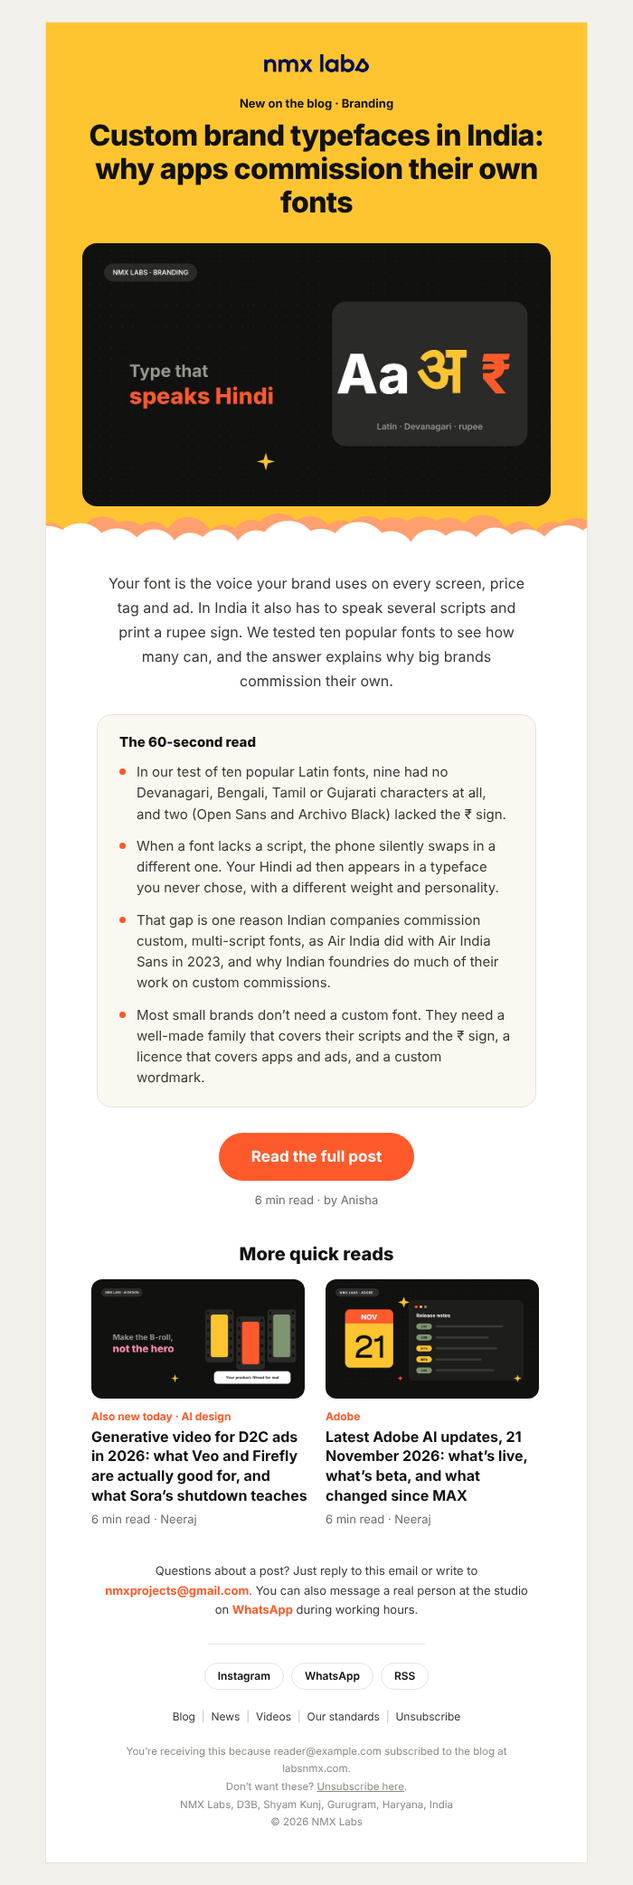
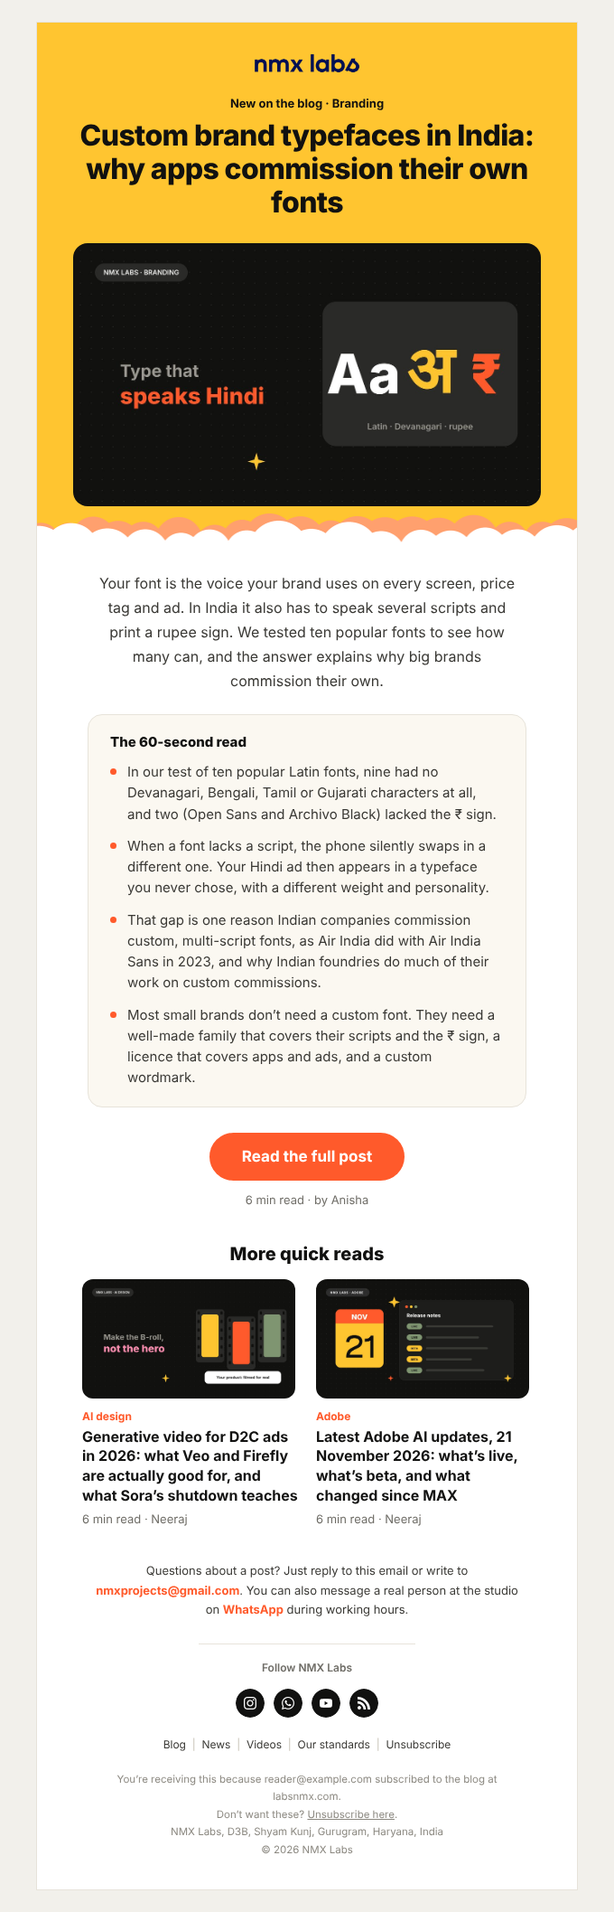
Add files via upload

Changed region(s): [[0.0618, 0.0, 0.9574, 0.5923], [0.1235, 0.5923, 0.8647, 0.9664], [0.1235, 0.0312, 0.8647, 0.1247]]

diff --git a/email-previews/new-post-email.html b/email-previews/new-post-email.html
@@ -1,50 +1,52 @@
 <!doctype html><html lang="en"><head><meta charset="utf-8"><meta name="viewport" content="width=device-width,initial-scale=1"><meta name="color-scheme" content="light only"><title>Custom brand typefaces in India: why apps commission their own fonts</title>
-<style>@media (max-width:620px){.container{width:100%!important}.px{padding-left:22px!important;padding-right:22px!important}.h1{font-size:27px!important}.qrc{display:block!important;width:100%!important;padding:0 0 22px!important}}</style></head>
+<link rel="preconnect" href="https://fonts.gstatic.com" crossorigin><link href="https://fonts.googleapis.com/css2?family=Inter:wght@400;500;600;700;800&display=swap" rel="stylesheet">
+<!--[if mso]><style>body,table,td,p,a,h1{font-family:Arial,Helvetica,sans-serif!important}</style><![endif]-->
+<style>@import url('https://fonts.googleapis.com/css2?family=Inter:wght@400;500;600;700;800&display=swap');@media (max-width:620px){.container{width:100%!important}.px{padding-left:22px!important;padding-right:22px!important}.h1{font-size:27px!important}.qrc{display:block!important;width:100%!important;padding:0 0 22px!important}}</style></head>
 <body style="margin:0;padding:0;background:#f2f0eb;-webkit-text-size-adjust:100%">
 <div style="display:none;max-height:0;overflow:hidden;opacity:0;color:#f2f0eb">Your font is the voice your brand uses on every screen, price tag and ad. In India it also has to speak several scripts and print a rupee sign. We tested ten popular fonts to see how many can, and the answer explains why big brands commission their own.</div>
 <table role="presentation" width="100%" cellpadding="0" cellspacing="0" style="background:#f2f0eb"><tr><td align="center" style="padding:24px 10px">
 <table role="presentation" class="container" width="600" cellpadding="0" cellspacing="0" style="width:600px;max-width:600px;background:#ffffff;border:1px solid #e7e3da">
   <tr><td class="px" align="center" style="background:#ffc530;padding:34px 40px 0">
     <a href="https://labsnmx.com/"><img src="https://labsnmx.com/assets/logo.png" width="118" height="22" alt="NMX Labs" style="display:block;border:0;height:22px;width:118px"></a>
-    <p style="margin:24px 0 0;font:700 13px/1.4 'Helvetica Neue',Helvetica,Arial,sans-serif;color:#111110">New on the blog · Branding</p>
-    <h1 class="h1" style="margin:8px 0 0;font:800 32px/1.16 'Helvetica Neue',Helvetica,Arial,sans-serif;color:#111110;letter-spacing:-0.02em">Custom brand typefaces in India: why apps commission their own fonts</h1>
+    <p style="margin:24px 0 0;font:700 13px/1.4 Inter,'Helvetica Neue',Helvetica,Arial,sans-serif;color:#111110">New on the blog · Branding</p>
+    <h1 class="h1" style="margin:8px 0 0;font:800 32px/1.16 Inter,'Helvetica Neue',Helvetica,Arial,sans-serif;color:#111110;letter-spacing:-0.02em">Custom brand typefaces in India: why apps commission their own fonts</h1>
   </td></tr>
   <tr><td class="px" align="center" style="background:#ffc530;padding:26px 40px 0;line-height:0"><a href="https://labsnmx.com/blog/custom-brand-typefaces-india/?utm_source=newsletter&amp;utm_medium=email&amp;utm_campaign=post_custom-brand-typefaces-india"><img src="https://labsnmx.com/assets/blog/custom-brand-typefaces-india.jpg" width="520" alt="" style="display:block;width:100%;max-width:520px;height:auto;border:0;border-radius:16px"></a></td></tr>
   <tr><td style="background:#ffc530;line-height:0;font-size:0"><img src="https://labsnmx.com/assets/email/edge.png" width="600" height="48" alt="" style="display:block;width:100%;height:auto;border:0"></td></tr>
-  <tr><td class="px" align="center" style="padding:24px 64px 18px;font:16px/1.7 'Helvetica Neue',Helvetica,Arial,sans-serif;color:#3a3935;text-align:center"><p style="margin:0">Your font is the voice your brand uses on every screen, price tag and ad. In India it also has to speak several scripts and print a rupee sign. We tested ten popular fonts to see how many can, and the answer explains why big brands commission their own.</p></td></tr>
+  <tr><td class="px" align="center" style="padding:24px 64px 18px;font:16px/1.7 Inter,'Helvetica Neue',Helvetica,Arial,sans-serif;color:#3a3935;text-align:center"><p style="margin:0">Your font is the voice your brand uses on every screen, price tag and ad. In India it also has to speak several scripts and print a rupee sign. We tested ten popular fonts to see how many can, and the answer explains why big brands commission their own.</p></td></tr>
   <tr><td class="px" style="padding:4px 56px 0">
       <table role="presentation" width="100%" cellpadding="0" cellspacing="0" style="background:#fbf8f1;border:1px solid #e7e3da;border-radius:16px"><tr><td style="padding:20px 24px 8px">
-        <p style="margin:0 0 12px;font:800 15px/1.3 'Helvetica Neue',Helvetica,Arial,sans-serif;color:#111110">The 60-second read</p>
-        <table role="presentation" cellpadding="0" cellspacing="0" style="margin:0 0 12px"><tr><td valign="top" style="padding:8px 12px 0 0"><div style="width:7px;height:7px;border-radius:7px;background:#ff5a2b;font-size:0;line-height:0">&nbsp;</div></td><td style="font:15px/1.55 'Helvetica Neue',Helvetica,Arial,sans-serif;color:#3a3935">In our test of ten popular Latin fonts, nine had no Devanagari, Bengali, Tamil or Gujarati characters at all, and two (Open Sans and Archivo Black) lacked the ₹ sign.</td></tr></table><table role="presentation" cellpadding="0" cellspacing="0" style="margin:0 0 12px"><tr><td valign="top" style="padding:8px 12px 0 0"><div style="width:7px;height:7px;border-radius:7px;background:#ff5a2b;font-size:0;line-height:0">&nbsp;</div></td><td style="font:15px/1.55 'Helvetica Neue',Helvetica,Arial,sans-serif;color:#3a3935">When a font lacks a script, the phone silently swaps in a different one. Your Hindi ad then appears in a typeface you never chose, with a different weight and personality.</td></tr></table><table role="presentation" cellpadding="0" cellspacing="0" style="margin:0 0 12px"><tr><td valign="top" style="padding:8px 12px 0 0"><div style="width:7px;height:7px;border-radius:7px;background:#ff5a2b;font-size:0;line-height:0">&nbsp;</div></td><td style="font:15px/1.55 'Helvetica Neue',Helvetica,Arial,sans-serif;color:#3a3935">That gap is one reason Indian companies commission custom, multi-script fonts, as Air India did with Air India Sans in 2023, and why Indian foundries do much of their work on custom commissions.</td></tr></table><table role="presentation" cellpadding="0" cellspacing="0" style="margin:0 0 12px"><tr><td valign="top" style="padding:8px 12px 0 0"><div style="width:7px;height:7px;border-radius:7px;background:#ff5a2b;font-size:0;line-height:0">&nbsp;</div></td><td style="font:15px/1.55 'Helvetica Neue',Helvetica,Arial,sans-serif;color:#3a3935">Most small brands don’t need a custom font. They need a well-made family that covers their scripts and the ₹ sign, a licence that covers apps and ads, and a custom wordmark.</td></tr></table>
+        <p style="margin:0 0 12px;font:800 15px/1.3 Inter,'Helvetica Neue',Helvetica,Arial,sans-serif;color:#111110">The 60-second read</p>
+        <table role="presentation" cellpadding="0" cellspacing="0" style="margin:0 0 12px"><tr><td valign="top" style="padding:8px 12px 0 0"><div style="width:7px;height:7px;border-radius:7px;background:#ff5a2b;font-size:0;line-height:0">&nbsp;</div></td><td style="font:15px/1.55 Inter,'Helvetica Neue',Helvetica,Arial,sans-serif;color:#3a3935">In our test of ten popular Latin fonts, nine had no Devanagari, Bengali, Tamil or Gujarati characters at all, and two (Open Sans and Archivo Black) lacked the ₹ sign.</td></tr></table><table role="presentation" cellpadding="0" cellspacing="0" style="margin:0 0 12px"><tr><td valign="top" style="padding:8px 12px 0 0"><div style="width:7px;height:7px;border-radius:7px;background:#ff5a2b;font-size:0;line-height:0">&nbsp;</div></td><td style="font:15px/1.55 Inter,'Helvetica Neue',Helvetica,Arial,sans-serif;color:#3a3935">When a font lacks a script, the phone silently swaps in a different one. Your Hindi ad then appears in a typeface you never chose, with a different weight and personality.</td></tr></table><table role="presentation" cellpadding="0" cellspacing="0" style="margin:0 0 12px"><tr><td valign="top" style="padding:8px 12px 0 0"><div style="width:7px;height:7px;border-radius:7px;background:#ff5a2b;font-size:0;line-height:0">&nbsp;</div></td><td style="font:15px/1.55 Inter,'Helvetica Neue',Helvetica,Arial,sans-serif;color:#3a3935">That gap is one reason Indian companies commission custom, multi-script fonts, as Air India did with Air India Sans in 2023, and why Indian foundries do much of their work on custom commissions.</td></tr></table><table role="presentation" cellpadding="0" cellspacing="0" style="margin:0 0 12px"><tr><td valign="top" style="padding:8px 12px 0 0"><div style="width:7px;height:7px;border-radius:7px;background:#ff5a2b;font-size:0;line-height:0">&nbsp;</div></td><td style="font:15px/1.55 Inter,'Helvetica Neue',Helvetica,Arial,sans-serif;color:#3a3935">Most small brands don’t need a custom font. They need a well-made family that covers their scripts and the ₹ sign, a licence that covers apps and ads, and a custom wordmark.</td></tr></table>
       </td></tr></table></td></tr>
   <tr><td align="center" style="padding:28px 40px 4px">
-      <a href="https://labsnmx.com/blog/custom-brand-typefaces-india/?utm_source=newsletter&amp;utm_medium=email&amp;utm_campaign=post_custom-brand-typefaces-india" style="display:inline-block;background:#ff5a2b;color:#ffffff;font:700 17px/1 'Helvetica Neue',Helvetica,Arial,sans-serif;text-decoration:none;padding:18px 36px;border-radius:999px">Read the full post</a>
-      <p style="margin:12px 0 0;font:13px/1.45 'Helvetica Neue',Helvetica,Arial,sans-serif;color:#6f6d67">6 min read · by Anisha</p></td></tr>
+      <a href="https://labsnmx.com/blog/custom-brand-typefaces-india/?utm_source=newsletter&amp;utm_medium=email&amp;utm_campaign=post_custom-brand-typefaces-india" style="display:inline-block;background:#ff5a2b;color:#ffffff;font:700 17px/1 Inter,'Helvetica Neue',Helvetica,Arial,sans-serif;text-decoration:none;padding:18px 36px;border-radius:999px">Read the full post</a>
+      <p style="margin:12px 0 0;font:13px/1.45 Inter,'Helvetica Neue',Helvetica,Arial,sans-serif;color:#6f6d67">6 min read · by Anisha</p></td></tr>
   <tr><td class="px" style="padding:34px 40px 6px">
-      <p style="margin:0 0 16px;text-align:center;font:800 20px/1.2 'Helvetica Neue',Helvetica,Arial,sans-serif;color:#111110">More quick reads</p>
+      <p style="margin:0 0 16px;text-align:center;font:800 20px/1.2 Inter,'Helvetica Neue',Helvetica,Arial,sans-serif;color:#111110">More quick reads</p>
       <table role="presentation" class="qr" width="100%" cellpadding="0" cellspacing="0"><tr><td class="qrc" width="50%" valign="top" style="padding:0 10px">
       <a href="https://labsnmx.com/blog/generative-video-d2c-ads-veo-firefly/?utm_source=newsletter&amp;utm_medium=email&amp;utm_campaign=post_custom-brand-typefaces-india" style="text-decoration:none;color:#111110">
         <img src="https://labsnmx.com/assets/blog/generative-video-d2c-ads-veo-firefly.jpg" width="236" alt="" style="display:block;width:100%;max-width:236px;height:auto;border:0;border-radius:12px">
-        <p style="margin:12px 0 4px;font:700 12px/1.3 'Helvetica Neue',Helvetica,Arial,sans-serif;color:#ff5a2b">Also new today · AI design</p>
-        <p style="margin:0;font:700 16px/1.35 'Helvetica Neue',Helvetica,Arial,sans-serif;color:#111110">Generative video for D2C ads in 2026: what Veo and Firefly are actually good for, and what Sora’s shutdown teaches</p>
-        <p style="margin:6px 0 0;font:13px/1.4 'Helvetica Neue',Helvetica,Arial,sans-serif;color:#6f6d67">6 min read · Neeraj</p>
+        <p style="margin:12px 0 4px;font:700 12px/1.3 Inter,'Helvetica Neue',Helvetica,Arial,sans-serif;color:#ff5a2b">AI design</p>
+        <p style="margin:0;font:700 16px/1.35 Inter,'Helvetica Neue',Helvetica,Arial,sans-serif;color:#111110">Generative video for D2C ads in 2026: what Veo and Firefly are actually good for, and what Sora’s shutdown teaches</p>
+        <p style="margin:6px 0 0;font:13px/1.4 Inter,'Helvetica Neue',Helvetica,Arial,sans-serif;color:#6f6d67">6 min read · Neeraj</p>
       </a></td><td class="qrc" width="50%" valign="top" style="padding:0 10px">
       <a href="https://labsnmx.com/blog/latest-adobe-ai-updates-november-2026/?utm_source=newsletter&amp;utm_medium=email&amp;utm_campaign=post_custom-brand-typefaces-india" style="text-decoration:none;color:#111110">
         <img src="https://labsnmx.com/assets/blog/latest-adobe-ai-updates-november-2026.jpg" width="236" alt="" style="display:block;width:100%;max-width:236px;height:auto;border:0;border-radius:12px">
-        <p style="margin:12px 0 4px;font:700 12px/1.3 'Helvetica Neue',Helvetica,Arial,sans-serif;color:#ff5a2b">Adobe</p>
-        <p style="margin:0;font:700 16px/1.35 'Helvetica Neue',Helvetica,Arial,sans-serif;color:#111110">Latest Adobe AI updates, 21 November 2026: what’s live, what’s beta, and what changed since MAX</p>
-        <p style="margin:6px 0 0;font:13px/1.4 'Helvetica Neue',Helvetica,Arial,sans-serif;color:#6f6d67">6 min read · Neeraj</p>
+        <p style="margin:12px 0 4px;font:700 12px/1.3 Inter,'Helvetica Neue',Helvetica,Arial,sans-serif;color:#ff5a2b">Adobe</p>
+        <p style="margin:0;font:700 16px/1.35 Inter,'Helvetica Neue',Helvetica,Arial,sans-serif;color:#111110">Latest Adobe AI updates, 21 November 2026: what’s live, what’s beta, and what changed since MAX</p>
+        <p style="margin:6px 0 0;font:13px/1.4 Inter,'Helvetica Neue',Helvetica,Arial,sans-serif;color:#6f6d67">6 min read · Neeraj</p>
       </a></td></tr></table>
     </td></tr>
-  <tr><td class="px" align="center" style="padding:32px 56px 0;font:13px/1.65 'Helvetica Neue',Helvetica,Arial,sans-serif;color:#3a3935;text-align:center">
+  <tr><td class="px" align="center" style="padding:32px 56px 0;font:13px/1.65 Inter,'Helvetica Neue',Helvetica,Arial,sans-serif;color:#3a3935;text-align:center">
     Questions about a post? Just reply to this email or write to <a href="mailto:nmxprojects@gmail.com" style="color:#ff5a2b;font-weight:700;text-decoration:none">nmxprojects@gmail.com</a>.
     You can also message a real person at the studio on <a href="https://wa.me/918810438717" style="color:#ff5a2b;font-weight:700;text-decoration:none">WhatsApp</a> during working hours.
   </td></tr>
   <tr><td align="center" style="padding:26px 0 0"><table role="presentation" width="240" cellpadding="0" cellspacing="0"><tr><td style="border-top:1px solid #e7e3da;font-size:0;line-height:0">&nbsp;</td></tr></table></td></tr>
-  <tr><td align="center" style="padding:16px 30px 0"><a href="https://www.instagram.com/_nmxlabs/" style="display:inline-block;margin:4px;padding:8px 14px;border:1px solid #e7e3da;border-radius:999px;font:600 12px/1 'Helvetica Neue',Helvetica,Arial,sans-serif;color:#111110;text-decoration:none">Instagram</a><a href="https://wa.me/918810438717" style="display:inline-block;margin:4px;padding:8px 14px;border:1px solid #e7e3da;border-radius:999px;font:600 12px/1 'Helvetica Neue',Helvetica,Arial,sans-serif;color:#111110;text-decoration:none">WhatsApp</a><a href="https://labsnmx.com/blog/feed.xml" style="display:inline-block;margin:4px;padding:8px 14px;border:1px solid #e7e3da;border-radius:999px;font:600 12px/1 'Helvetica Neue',Helvetica,Arial,sans-serif;color:#111110;text-decoration:none">RSS</a></td></tr>
-  <tr><td align="center" style="padding:16px 30px 0;font:12px/1.6 'Helvetica Neue',Helvetica,Arial,sans-serif"><a href="https://labsnmx.com/blog/" style="color:#3a3935;text-decoration:none">Blog</a><span style="color:#c9c4b8">&nbsp;&nbsp;|&nbsp;&nbsp;</span><a href="https://labsnmx.com/news/" style="color:#3a3935;text-decoration:none">News</a><span style="color:#c9c4b8">&nbsp;&nbsp;|&nbsp;&nbsp;</span><a href="https://labsnmx.com/videos/" style="color:#3a3935;text-decoration:none">Videos</a><span style="color:#c9c4b8">&nbsp;&nbsp;|&nbsp;&nbsp;</span><a href="https://labsnmx.com/editorial-standards/" style="color:#3a3935;text-decoration:none">Our standards</a><span style="color:#c9c4b8">&nbsp;&nbsp;|&nbsp;&nbsp;</span><a href="https://script.google.com/macros/s/EXAMPLE/exec?action=unsubscribe&amp;email=reader%40example.com&amp;token=abc123" style="color:#3a3935;text-decoration:none">Unsubscribe</a></td></tr>
-  <tr><td class="px" align="center" style="padding:20px 50px 34px;font:11.5px/1.7 'Helvetica Neue',Helvetica,Arial,sans-serif;color:#8b8880;text-align:center">
+  <tr><td align="center" style="padding:18px 30px 0"><p style="margin:0 0 10px;font:600 12px/1.4 Inter,'Helvetica Neue',Helvetica,Arial,sans-serif;color:#6f6d67">Follow NMX Labs</p><a href="https://www.instagram.com/_nmxlabs/" title="Instagram" style="display:inline-block;margin:4px 5px;text-decoration:none;vertical-align:middle"><img src="https://labsnmx.com/assets/email/social/instagram.png" width="32" height="32" alt="Instagram" style="display:block;width:32px;height:32px;border:0;border-radius:32px"></a><a href="https://wa.me/918810438717" title="WhatsApp" style="display:inline-block;margin:4px 5px;text-decoration:none;vertical-align:middle"><img src="https://labsnmx.com/assets/email/social/whatsapp.png" width="32" height="32" alt="WhatsApp" style="display:block;width:32px;height:32px;border:0;border-radius:32px"></a><a href="https://www.youtube.com/channel/UCabcdefghijklmnopqrstuv" title="YouTube" style="display:inline-block;margin:4px 5px;text-decoration:none;vertical-align:middle"><img src="https://labsnmx.com/assets/email/social/youtube.png" width="32" height="32" alt="YouTube" style="display:block;width:32px;height:32px;border:0;border-radius:32px"></a><a href="https://labsnmx.com/blog/feed.xml" title="RSS" style="display:inline-block;margin:4px 5px;text-decoration:none;vertical-align:middle"><img src="https://labsnmx.com/assets/email/social/rss.png" width="32" height="32" alt="RSS" style="display:block;width:32px;height:32px;border:0;border-radius:32px"></a></td></tr>
+  <tr><td align="center" style="padding:16px 30px 0;font:12px/1.6 Inter,'Helvetica Neue',Helvetica,Arial,sans-serif"><a href="https://labsnmx.com/blog/" style="color:#3a3935;text-decoration:none">Blog</a><span style="color:#c9c4b8">&nbsp;&nbsp;|&nbsp;&nbsp;</span><a href="https://labsnmx.com/news/" style="color:#3a3935;text-decoration:none">News</a><span style="color:#c9c4b8">&nbsp;&nbsp;|&nbsp;&nbsp;</span><a href="https://labsnmx.com/videos/" style="color:#3a3935;text-decoration:none">Videos</a><span style="color:#c9c4b8">&nbsp;&nbsp;|&nbsp;&nbsp;</span><a href="https://labsnmx.com/editorial-standards/" style="color:#3a3935;text-decoration:none">Our standards</a><span style="color:#c9c4b8">&nbsp;&nbsp;|&nbsp;&nbsp;</span><a href="https://script.google.com/macros/s/X/exec?action=unsubscribe&amp;email=reader%40example.com&amp;token=tok" style="color:#3a3935;text-decoration:none">Unsubscribe</a></td></tr>
+  <tr><td class="px" align="center" style="padding:20px 50px 34px;font:11.5px/1.7 Inter,'Helvetica Neue',Helvetica,Arial,sans-serif;color:#8b8880;text-align:center">
     You’re receiving this because reader@example.com subscribed to the blog at labsnmx.com.<br>
-    Don’t want these? <a href="https://script.google.com/macros/s/EXAMPLE/exec?action=unsubscribe&amp;email=reader%40example.com&amp;token=abc123" style="color:#8b8880">Unsubscribe here</a>.<br>NMX Labs, D3B, Shyam Kunj, Gurugram, Haryana, India<br>© 2026 NMX Labs
+    Don’t want these? <a href="https://script.google.com/macros/s/X/exec?action=unsubscribe&amp;email=reader%40example.com&amp;token=tok" style="color:#8b8880">Unsubscribe here</a>.<br>NMX Labs, D3B, Shyam Kunj, Gurugram, Haryana, India<br>© 2026 NMX Labs
   </td></tr>
 </table></td></tr></table></body></html>

diff --git a/email-previews/welcome-email.html b/email-previews/welcome-email.html
@@ -1,47 +1,49 @@
 <!doctype html><html lang="en"><head><meta charset="utf-8"><meta name="viewport" content="width=device-width,initial-scale=1"><meta name="color-scheme" content="light only"><title>Welcome to the NMX Labs blog</title>
-<style>@media (max-width:620px){.container{width:100%!important}.px{padding-left:22px!important;padding-right:22px!important}.h1{font-size:27px!important}.qrc{display:block!important;width:100%!important;padding:0 0 22px!important}}</style></head>
+<link rel="preconnect" href="https://fonts.gstatic.com" crossorigin><link href="https://fonts.googleapis.com/css2?family=Inter:wght@400;500;600;700;800&display=swap" rel="stylesheet">
+<!--[if mso]><style>body,table,td,p,a,h1{font-family:Arial,Helvetica,sans-serif!important}</style><![endif]-->
+<style>@import url('https://fonts.googleapis.com/css2?family=Inter:wght@400;500;600;700;800&display=swap');@media (max-width:620px){.container{width:100%!important}.px{padding-left:22px!important;padding-right:22px!important}.h1{font-size:27px!important}.qrc{display:block!important;width:100%!important;padding:0 0 22px!important}}</style></head>
 <body style="margin:0;padding:0;background:#f2f0eb;-webkit-text-size-adjust:100%">
 <div style="display:none;max-height:0;overflow:hidden;opacity:0;color:#f2f0eb">One email when a post goes live, with a 60-second read so you can decide whether to click.</div>
 <table role="presentation" width="100%" cellpadding="0" cellspacing="0" style="background:#f2f0eb"><tr><td align="center" style="padding:24px 10px">
 <table role="presentation" class="container" width="600" cellpadding="0" cellspacing="0" style="width:600px;max-width:600px;background:#ffffff;border:1px solid #e7e3da">
   <tr><td class="px" align="center" style="background:#ffc530;padding:34px 40px 0">
     <a href="https://labsnmx.com/"><img src="https://labsnmx.com/assets/logo.png" width="118" height="22" alt="NMX Labs" style="display:block;border:0;height:22px;width:118px"></a>
-    <p style="margin:24px 0 0;font:700 13px/1.4 'Helvetica Neue',Helvetica,Arial,sans-serif;color:#111110">Welcome to the studio notes</p>
-    <h1 class="h1" style="margin:8px 0 0;font:800 32px/1.16 'Helvetica Neue',Helvetica,Arial,sans-serif;color:#111110;letter-spacing:-0.02em">You’re in. Good to have you.</h1>
+    <p style="margin:24px 0 0;font:700 13px/1.4 Inter,'Helvetica Neue',Helvetica,Arial,sans-serif;color:#111110">Welcome to the studio notes</p>
+    <h1 class="h1" style="margin:8px 0 0;font:800 32px/1.16 Inter,'Helvetica Neue',Helvetica,Arial,sans-serif;color:#111110;letter-spacing:-0.02em">You’re in. Good to have you.</h1>
   </td></tr>
   <tr><td style="background:#ffc530;padding:14px 0 0;line-height:0"><a href="https://labsnmx.com/blog/?utm_source=newsletter&amp;utm_medium=email&amp;utm_campaign=welcome"><img src="https://labsnmx.com/assets/email/welcome-hero.png" width="600" alt="A fanned stack of colourful note cards" style="display:block;width:100%;height:auto;border:0"></a></td></tr>
   <tr><td style="background:#ffc530;line-height:0;font-size:0"><img src="https://labsnmx.com/assets/email/edge.png" width="600" height="48" alt="" style="display:block;width:100%;height:auto;border:0"></td></tr>
-  <tr><td class="px" align="center" style="padding:24px 64px 18px;font:16px/1.7 'Helvetica Neue',Helvetica,Arial,sans-serif;color:#3a3935;text-align:center"><p style="margin:0 0 14px">Thanks for subscribing. Whenever we publish, you’ll get one email with the headline and a 60-second read of the key points, so you can decide at a glance whether it’s worth your time.</p>
+  <tr><td class="px" align="center" style="padding:24px 64px 18px;font:16px/1.7 Inter,'Helvetica Neue',Helvetica,Arial,sans-serif;color:#3a3935;text-align:center"><p style="margin:0 0 14px">Thanks for subscribing. Whenever we publish, you’ll get one email with the headline and a 60-second read of the key points, so you can decide at a glance whether it’s worth your time.</p>
                <p style="margin:0">We write about AI and creative tools, advertising, branding and platform growth for Indian brands. Every post names its sources and shows the tests we ran.</p></td></tr>
   
   <tr><td align="center" style="padding:28px 40px 4px">
-      <a href="https://labsnmx.com/blog/custom-brand-typefaces-india/?utm_source=newsletter&amp;utm_medium=email&amp;utm_campaign=welcome" style="display:inline-block;background:#ff5a2b;color:#ffffff;font:700 17px/1 'Helvetica Neue',Helvetica,Arial,sans-serif;text-decoration:none;padding:18px 36px;border-radius:999px">Read the latest post</a>
-      <p style="margin:12px 0 0;font:13px/1.45 'Helvetica Neue',Helvetica,Arial,sans-serif;color:#6f6d67">Custom brand typefaces in India: why apps commission their own fonts</p></td></tr>
+      <a href="https://labsnmx.com/blog/custom-brand-typefaces-india/?utm_source=newsletter&amp;utm_medium=email&amp;utm_campaign=welcome" style="display:inline-block;background:#ff5a2b;color:#ffffff;font:700 17px/1 Inter,'Helvetica Neue',Helvetica,Arial,sans-serif;text-decoration:none;padding:18px 36px;border-radius:999px">Read the latest post</a>
+      <p style="margin:12px 0 0;font:13px/1.45 Inter,'Helvetica Neue',Helvetica,Arial,sans-serif;color:#6f6d67">Custom brand typefaces in India: why apps commission their own fonts</p></td></tr>
   <tr><td class="px" style="padding:34px 40px 6px">
-      <p style="margin:0 0 16px;text-align:center;font:800 20px/1.2 'Helvetica Neue',Helvetica,Arial,sans-serif;color:#111110">Start with these quick reads</p>
+      <p style="margin:0 0 16px;text-align:center;font:800 20px/1.2 Inter,'Helvetica Neue',Helvetica,Arial,sans-serif;color:#111110">Start with these quick reads</p>
       <table role="presentation" class="qr" width="100%" cellpadding="0" cellspacing="0"><tr><td class="qrc" width="50%" valign="top" style="padding:0 10px">
       <a href="https://labsnmx.com/blog/generative-video-d2c-ads-veo-firefly/?utm_source=newsletter&amp;utm_medium=email&amp;utm_campaign=welcome" style="text-decoration:none;color:#111110">
         <img src="https://labsnmx.com/assets/blog/generative-video-d2c-ads-veo-firefly.jpg" width="236" alt="" style="display:block;width:100%;max-width:236px;height:auto;border:0;border-radius:12px">
-        <p style="margin:12px 0 4px;font:700 12px/1.3 'Helvetica Neue',Helvetica,Arial,sans-serif;color:#ff5a2b">AI design</p>
-        <p style="margin:0;font:700 16px/1.35 'Helvetica Neue',Helvetica,Arial,sans-serif;color:#111110">Generative video for D2C ads in 2026: what Veo and Firefly are actually good for, and what Sora’s shutdown teaches</p>
-        <p style="margin:6px 0 0;font:13px/1.4 'Helvetica Neue',Helvetica,Arial,sans-serif;color:#6f6d67">6 min read · Neeraj</p>
+        <p style="margin:12px 0 4px;font:700 12px/1.3 Inter,'Helvetica Neue',Helvetica,Arial,sans-serif;color:#ff5a2b">AI design</p>
+        <p style="margin:0;font:700 16px/1.35 Inter,'Helvetica Neue',Helvetica,Arial,sans-serif;color:#111110">Generative video for D2C ads in 2026: what Veo and Firefly are actually good for, and what Sora’s shutdown teaches</p>
+        <p style="margin:6px 0 0;font:13px/1.4 Inter,'Helvetica Neue',Helvetica,Arial,sans-serif;color:#6f6d67">6 min read · Neeraj</p>
       </a></td><td class="qrc" width="50%" valign="top" style="padding:0 10px">
       <a href="https://labsnmx.com/blog/latest-adobe-ai-updates-november-2026/?utm_source=newsletter&amp;utm_medium=email&amp;utm_campaign=welcome" style="text-decoration:none;color:#111110">
         <img src="https://labsnmx.com/assets/blog/latest-adobe-ai-updates-november-2026.jpg" width="236" alt="" style="display:block;width:100%;max-width:236px;height:auto;border:0;border-radius:12px">
-        <p style="margin:12px 0 4px;font:700 12px/1.3 'Helvetica Neue',Helvetica,Arial,sans-serif;color:#ff5a2b">Adobe</p>
-        <p style="margin:0;font:700 16px/1.35 'Helvetica Neue',Helvetica,Arial,sans-serif;color:#111110">Latest Adobe AI updates, 21 November 2026: what’s live, what’s beta, and what changed since MAX</p>
-        <p style="margin:6px 0 0;font:13px/1.4 'Helvetica Neue',Helvetica,Arial,sans-serif;color:#6f6d67">6 min read · Neeraj</p>
+        <p style="margin:12px 0 4px;font:700 12px/1.3 Inter,'Helvetica Neue',Helvetica,Arial,sans-serif;color:#ff5a2b">Adobe</p>
+        <p style="margin:0;font:700 16px/1.35 Inter,'Helvetica Neue',Helvetica,Arial,sans-serif;color:#111110">Latest Adobe AI updates, 21 November 2026: what’s live, what’s beta, and what changed since MAX</p>
+        <p style="margin:6px 0 0;font:13px/1.4 Inter,'Helvetica Neue',Helvetica,Arial,sans-serif;color:#6f6d67">6 min read · Neeraj</p>
       </a></td></tr></table>
     </td></tr>
-  <tr><td class="px" align="center" style="padding:32px 56px 0;font:13px/1.65 'Helvetica Neue',Helvetica,Arial,sans-serif;color:#3a3935;text-align:center">
+  <tr><td class="px" align="center" style="padding:32px 56px 0;font:13px/1.65 Inter,'Helvetica Neue',Helvetica,Arial,sans-serif;color:#3a3935;text-align:center">
     Questions about a post? Just reply to this email or write to <a href="mailto:nmxprojects@gmail.com" style="color:#ff5a2b;font-weight:700;text-decoration:none">nmxprojects@gmail.com</a>.
     You can also message a real person at the studio on <a href="https://wa.me/918810438717" style="color:#ff5a2b;font-weight:700;text-decoration:none">WhatsApp</a> during working hours.
   </td></tr>
   <tr><td align="center" style="padding:26px 0 0"><table role="presentation" width="240" cellpadding="0" cellspacing="0"><tr><td style="border-top:1px solid #e7e3da;font-size:0;line-height:0">&nbsp;</td></tr></table></td></tr>
-  <tr><td align="center" style="padding:16px 30px 0"><a href="https://www.instagram.com/_nmxlabs/" style="display:inline-block;margin:4px;padding:8px 14px;border:1px solid #e7e3da;border-radius:999px;font:600 12px/1 'Helvetica Neue',Helvetica,Arial,sans-serif;color:#111110;text-decoration:none">Instagram</a><a href="https://wa.me/918810438717" style="display:inline-block;margin:4px;padding:8px 14px;border:1px solid #e7e3da;border-radius:999px;font:600 12px/1 'Helvetica Neue',Helvetica,Arial,sans-serif;color:#111110;text-decoration:none">WhatsApp</a><a href="https://labsnmx.com/blog/feed.xml" style="display:inline-block;margin:4px;padding:8px 14px;border:1px solid #e7e3da;border-radius:999px;font:600 12px/1 'Helvetica Neue',Helvetica,Arial,sans-serif;color:#111110;text-decoration:none">RSS</a></td></tr>
-  <tr><td align="center" style="padding:16px 30px 0;font:12px/1.6 'Helvetica Neue',Helvetica,Arial,sans-serif"><a href="https://labsnmx.com/blog/" style="color:#3a3935;text-decoration:none">Blog</a><span style="color:#c9c4b8">&nbsp;&nbsp;|&nbsp;&nbsp;</span><a href="https://labsnmx.com/news/" style="color:#3a3935;text-decoration:none">News</a><span style="color:#c9c4b8">&nbsp;&nbsp;|&nbsp;&nbsp;</span><a href="https://labsnmx.com/videos/" style="color:#3a3935;text-decoration:none">Videos</a><span style="color:#c9c4b8">&nbsp;&nbsp;|&nbsp;&nbsp;</span><a href="https://labsnmx.com/editorial-standards/" style="color:#3a3935;text-decoration:none">Our standards</a><span style="color:#c9c4b8">&nbsp;&nbsp;|&nbsp;&nbsp;</span><a href="https://script.google.com/macros/s/EXAMPLE/exec?action=unsubscribe&amp;email=reader%40example.com&amp;token=abc123" style="color:#3a3935;text-decoration:none">Unsubscribe</a></td></tr>
-  <tr><td class="px" align="center" style="padding:20px 50px 34px;font:11.5px/1.7 'Helvetica Neue',Helvetica,Arial,sans-serif;color:#8b8880;text-align:center">
+  <tr><td align="center" style="padding:18px 30px 0"><p style="margin:0 0 10px;font:600 12px/1.4 Inter,'Helvetica Neue',Helvetica,Arial,sans-serif;color:#6f6d67">Follow NMX Labs</p><a href="https://www.instagram.com/_nmxlabs/" title="Instagram" style="display:inline-block;margin:4px 5px;text-decoration:none;vertical-align:middle"><img src="https://labsnmx.com/assets/email/social/instagram.png" width="32" height="32" alt="Instagram" style="display:block;width:32px;height:32px;border:0;border-radius:32px"></a><a href="https://wa.me/918810438717" title="WhatsApp" style="display:inline-block;margin:4px 5px;text-decoration:none;vertical-align:middle"><img src="https://labsnmx.com/assets/email/social/whatsapp.png" width="32" height="32" alt="WhatsApp" style="display:block;width:32px;height:32px;border:0;border-radius:32px"></a><a href="https://www.youtube.com/channel/UCabcdefghijklmnopqrstuv" title="YouTube" style="display:inline-block;margin:4px 5px;text-decoration:none;vertical-align:middle"><img src="https://labsnmx.com/assets/email/social/youtube.png" width="32" height="32" alt="YouTube" style="display:block;width:32px;height:32px;border:0;border-radius:32px"></a><a href="https://labsnmx.com/blog/feed.xml" title="RSS" style="display:inline-block;margin:4px 5px;text-decoration:none;vertical-align:middle"><img src="https://labsnmx.com/assets/email/social/rss.png" width="32" height="32" alt="RSS" style="display:block;width:32px;height:32px;border:0;border-radius:32px"></a></td></tr>
+  <tr><td align="center" style="padding:16px 30px 0;font:12px/1.6 Inter,'Helvetica Neue',Helvetica,Arial,sans-serif"><a href="https://labsnmx.com/blog/" style="color:#3a3935;text-decoration:none">Blog</a><span style="color:#c9c4b8">&nbsp;&nbsp;|&nbsp;&nbsp;</span><a href="https://labsnmx.com/news/" style="color:#3a3935;text-decoration:none">News</a><span style="color:#c9c4b8">&nbsp;&nbsp;|&nbsp;&nbsp;</span><a href="https://labsnmx.com/videos/" style="color:#3a3935;text-decoration:none">Videos</a><span style="color:#c9c4b8">&nbsp;&nbsp;|&nbsp;&nbsp;</span><a href="https://labsnmx.com/editorial-standards/" style="color:#3a3935;text-decoration:none">Our standards</a><span style="color:#c9c4b8">&nbsp;&nbsp;|&nbsp;&nbsp;</span><a href="https://script.google.com/macros/s/X/exec?action=unsubscribe&amp;email=reader%40example.com&amp;token=tok" style="color:#3a3935;text-decoration:none">Unsubscribe</a></td></tr>
+  <tr><td class="px" align="center" style="padding:20px 50px 34px;font:11.5px/1.7 Inter,'Helvetica Neue',Helvetica,Arial,sans-serif;color:#8b8880;text-align:center">
     You’re receiving this because reader@example.com subscribed to the blog at labsnmx.com.<br>
-    Don’t want these? <a href="https://script.google.com/macros/s/EXAMPLE/exec?action=unsubscribe&amp;email=reader%40example.com&amp;token=abc123" style="color:#8b8880">Unsubscribe here</a>.<br>NMX Labs, D3B, Shyam Kunj, Gurugram, Haryana, India<br>© 2026 NMX Labs
+    Don’t want these? <a href="https://script.google.com/macros/s/X/exec?action=unsubscribe&amp;email=reader%40example.com&amp;token=tok" style="color:#8b8880">Unsubscribe here</a>.<br>NMX Labs, D3B, Shyam Kunj, Gurugram, Haryana, India<br>© 2026 NMX Labs
   </td></tr>
 </table></td></tr></table></body></html>
